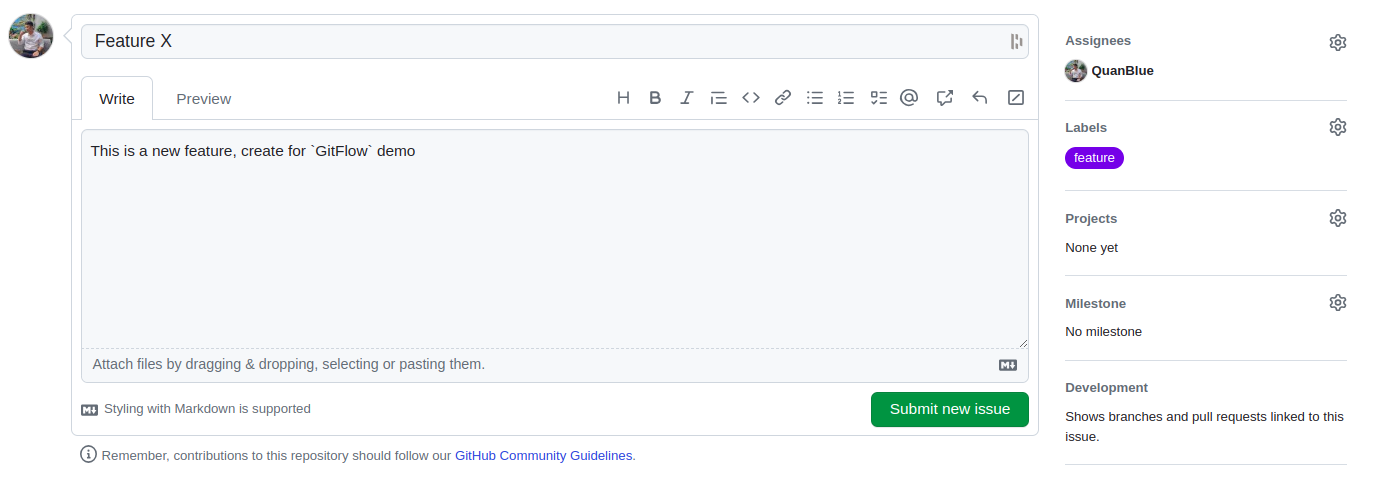
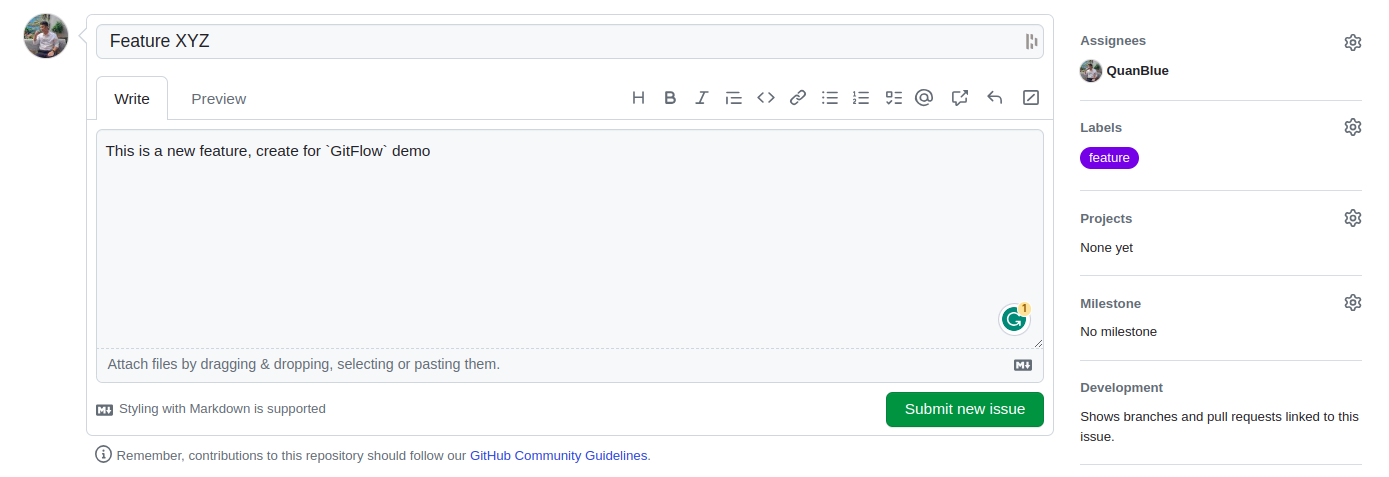
#5 - init feature/5-xyz

diff --git a/Version Control/Git/GitFlow.md b/Version Control/Git/GitFlow.md
@@ -146,46 +146,59 @@
 <div align="center">
 
 ![Todo task](assets/GitFlow/Dev-Proc/issue.png)
-<i>Todo task - Issue ID: #2</i>
+<i>Todo task - Issue ID: #5</i>
 
 </div>
 
-**Step 3:** Developer branches `develop`, let's call it `feature/2-x`.
+**Step 3:** Developer branches `develop`, let's call it `feature/5-xyz`.
 
 > **Note:** Feature branch name syntax: `feature/[issueID]-[issueName]`
 
 ```sh
-git checkout -b feature/2-x
+# Create and switch to feature branch
+git checkout -b feature/5-xyz
+
+# Push feature branch to remote
+git push -u origin feature/5-xyz
 ```
 
-**Step 4:** Developer works on feature/x.
+**Step 4:** Developer works on `feature/5-xyz`.
 
--  Here is example create a new file `feature-2-x.txt` and add content to it.
+-  Here is example create a new file `feature-4-xyz.txt` and add content to it.
 
 ```sh
-echo "feature-2-x" > feature-2-x.txt
+echo "feature-5-xyz" > feature-5-xyz.txt
 ```
 
--  Developer writes their own unit tests for feature/x.
+-  Developer writes their own unit tests for `feature/5-xyz`.
 
-**Step 5:** Developer publishes feature/x.
+**Step 5:** Developer publishes `feature/5-xyz`.
 
 -  Developer gets updates from `develop` when needed (by merging `develop` in).
 
 ```sh
+# Commit changes
+git add .
+git commit -m "#5 - init feature/5-xyz"
+
+# Switch to develop branch and get updates
+git checkout develop
 git pull origin develop
+
+# Switch to feature/5-xyz branch and merge develop branch in it
+git checkout feature/5-xyz
+git merge develop
+
+# Solve conflicts if any then save and commit
+git add .
+git commit -m "#5 - solve conflicts when merge develop branch"
 ```
 
 -  Developer makes sure their unit tests and all regression tests pass locally.
--  Developer pushes feature/x
+-  Developer pushes `feature/5-xyz` to remote.
 
 ```sh
-# commit
-git add .
-git commit -m "#2 - init feature/2-x"
-
-# push
-git push origin feature/2-x
+git push
 ```
 
 > **Note:** commit message syntax: `#[issueID] - [commit message]`
